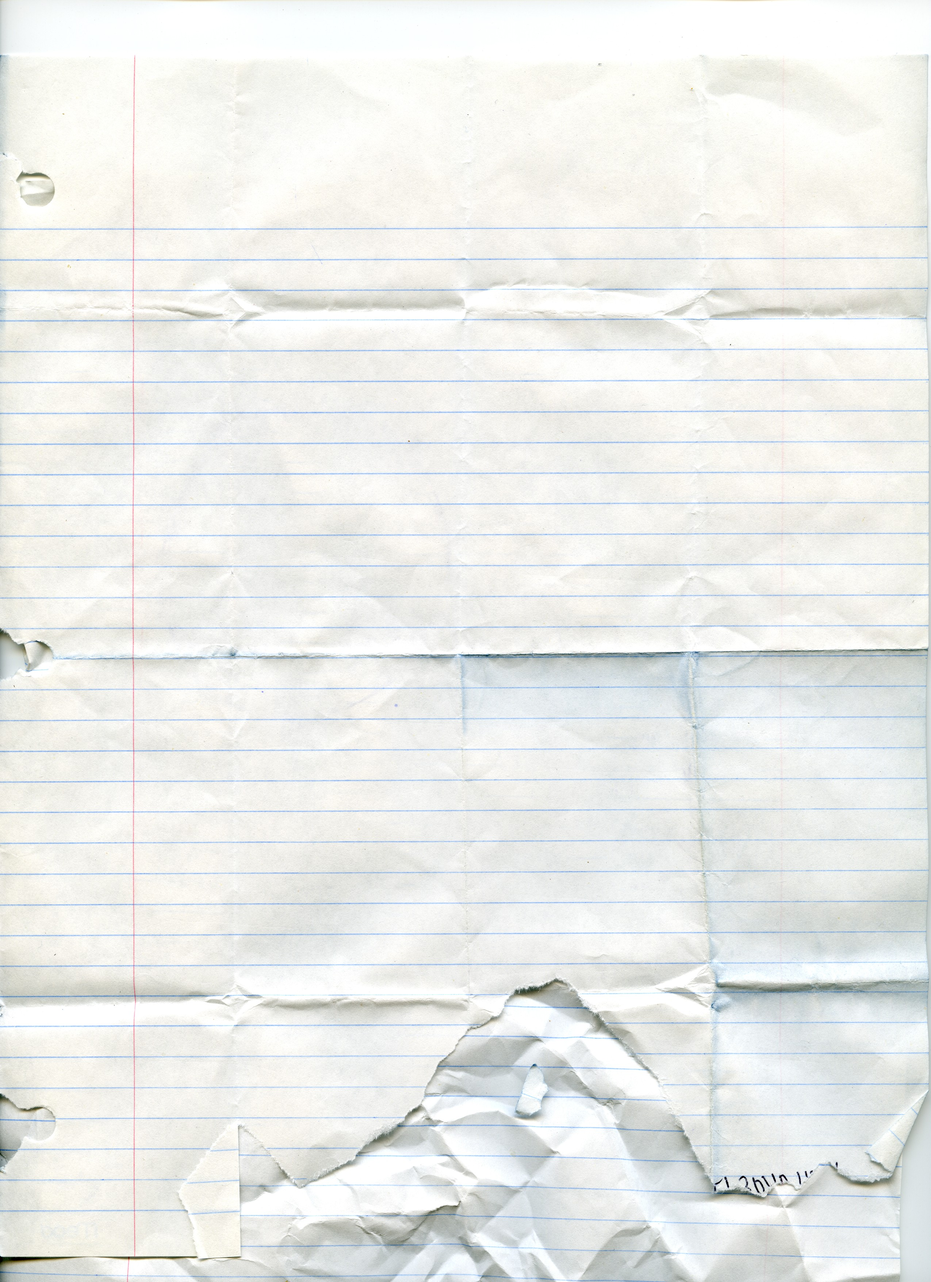
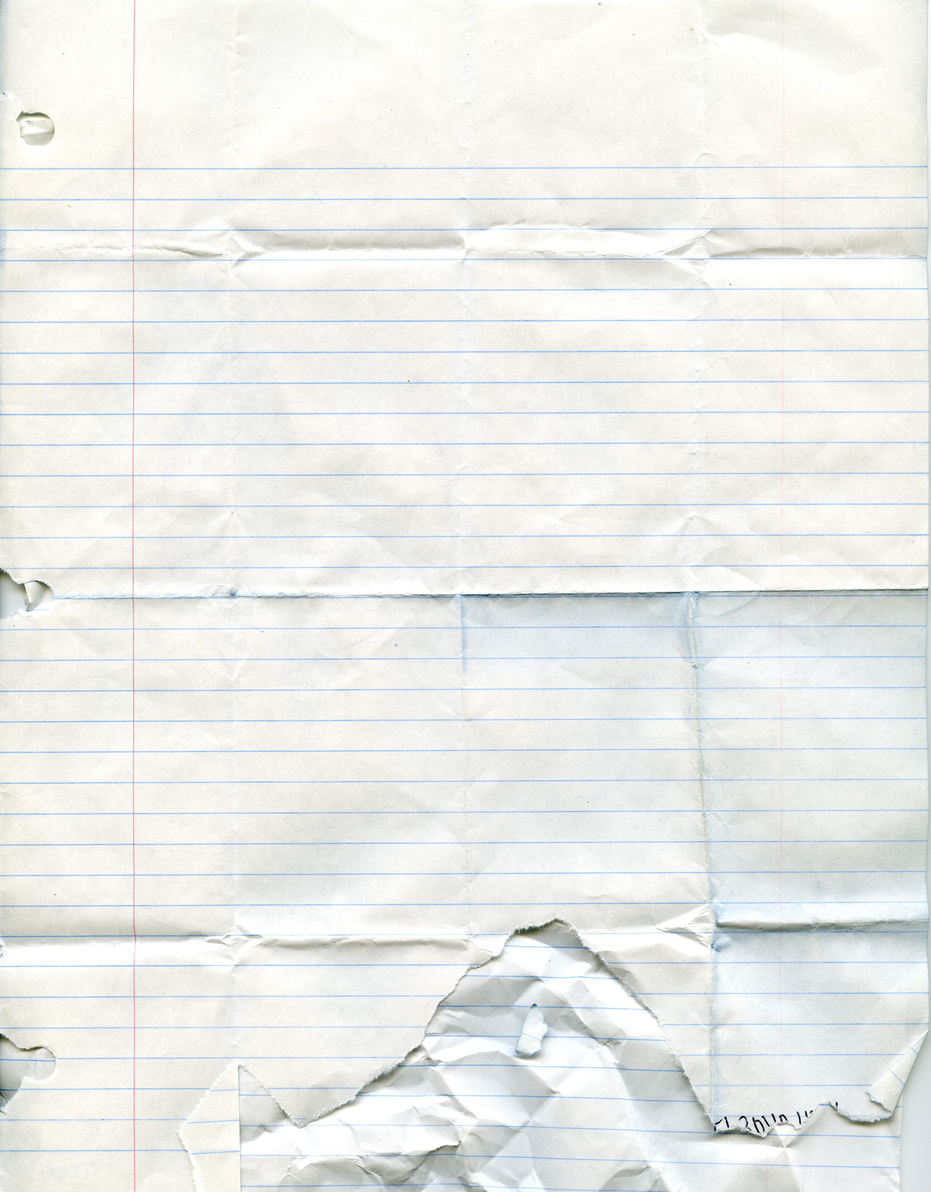
Adjusted style of H1 to remove black background.  Also, cropped top of background image, as blank whitespace was displaying.

diff --git a/css/style.css b/css/style.css
@@ -25,7 +25,8 @@ h1 {
   color: blue;
   /*changed h1 to blue*/
 
-  background-color: black;
+  /* background-color: black; */
+  /* removed background color behind h1, as it was too prominent -Joshua Sachtleben */
   text-shadow: 2px 2px 5px rgba(0, 0, 0, 0.7);
   font-size: 3em;
 }
